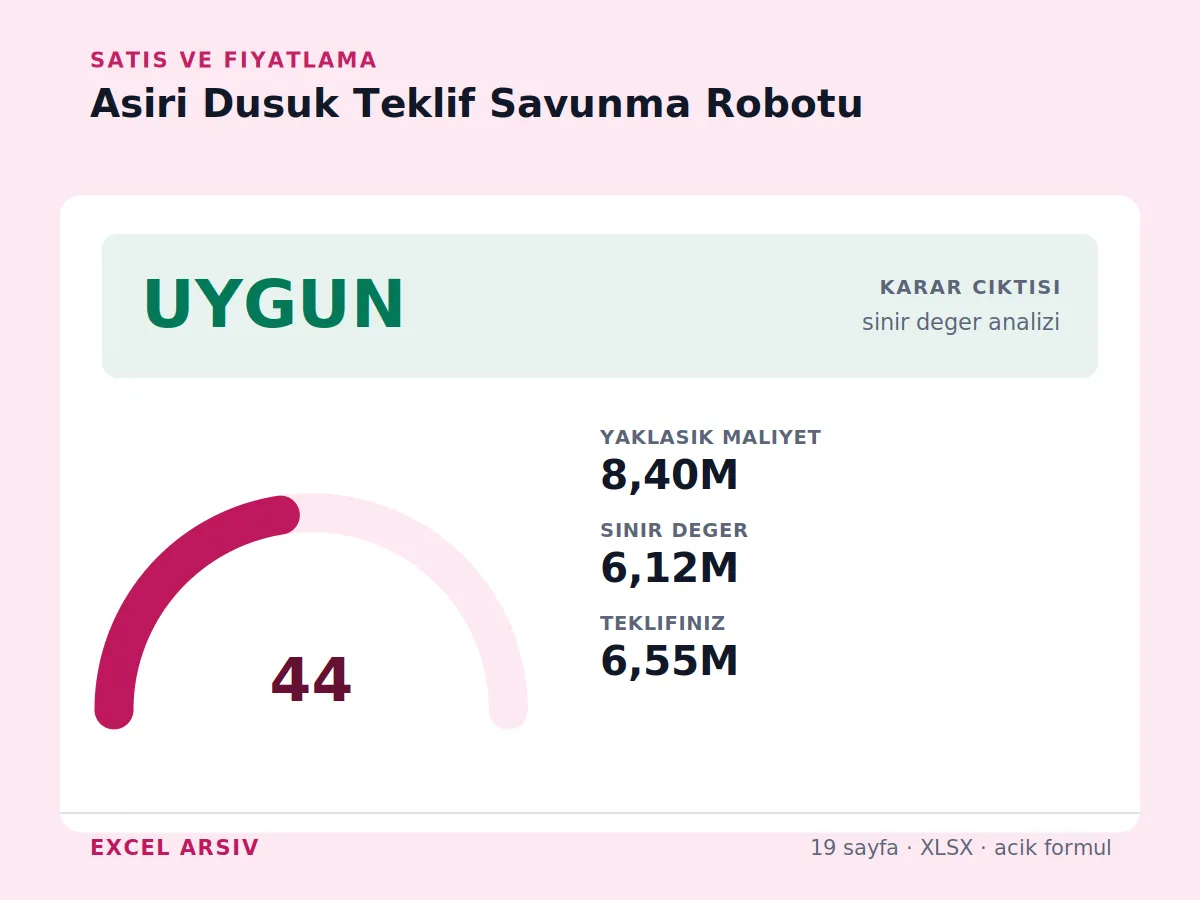
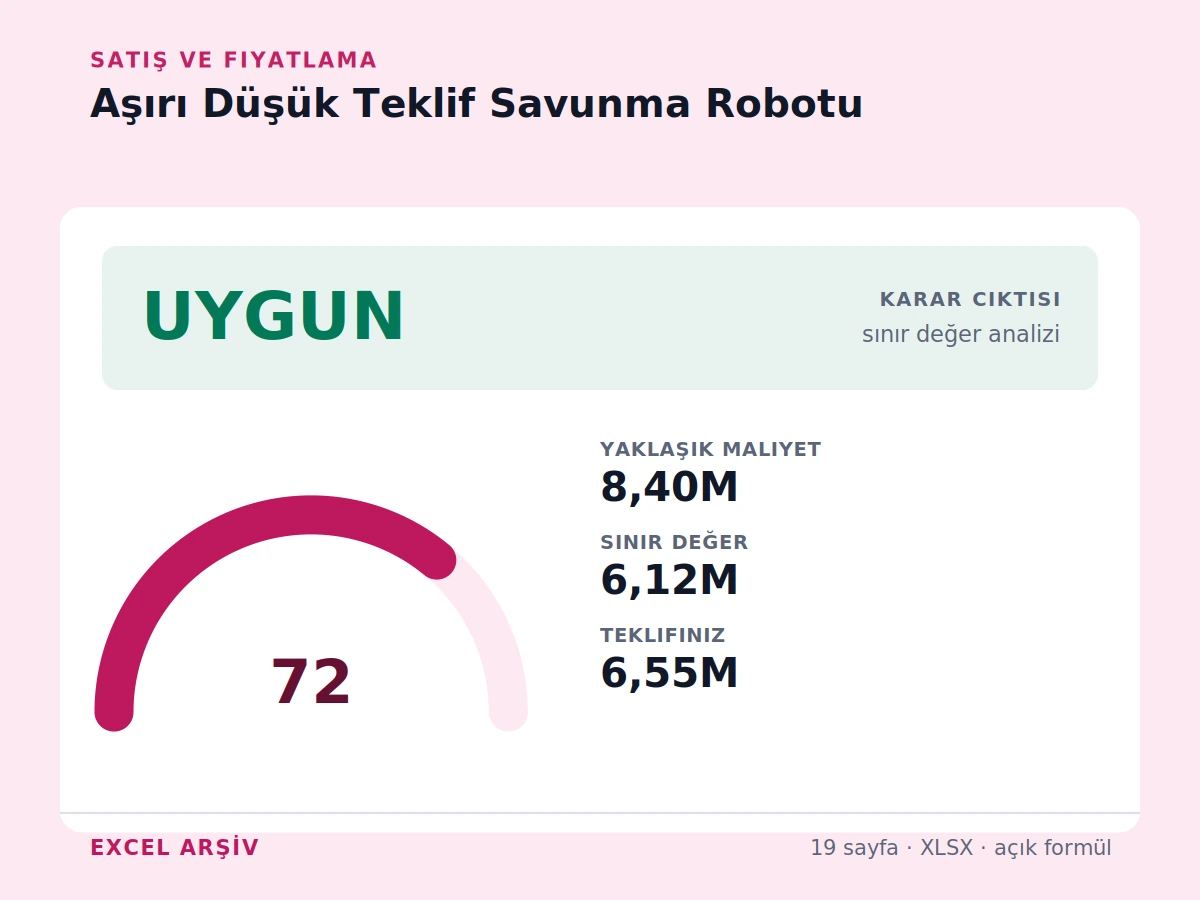
fix: 50 premium katalog kapağını gerçek render zincirine bağla

diff --git a/src/lib/kapak.ts b/src/lib/kapak.ts
@@ -1,17 +1,96 @@
 // Ürün slug'ından kapak görseli yolunu döndürür.
 // Kapak yalnızca kapak görseli üretilmiş ürünlerde mevcuttur; diğerlerinde undefined.
 const KAPAKLAR: Record<string, string> = {
-  '13-haftalik-nakit-akisi-ve-odeme-planlama-sistemi': '/images/kapak/13-haftalik-nakit-akisi.webp',
+  '13-haftalik-nakit-akisi-ve-odeme-planlama-sistemi': '/images/kapak/13-haftalik-nakit-akisi-ve-odeme-planlama-sistemi.webp',
   'asiri-dusuk-teklif-savunma-robotu': '/images/kapak/asiri-dusuk-teklif-savunma-robotu.webp',
-  'cari-hesap-tahsilat-ve-musteri-risk-takip-sistemi': '/images/kapak/cari-hesap-tahsilat-musteri-risk.webp',
-  'cek-senet-ve-vade-risk-sistemi': '/images/kapak/cek-senet-vade-risk.webp',
-  'kidem-ihbar-yuku-ve-personel-cikarma-maliyeti-hesaplayici': '/images/kapak/kidem-ihbar-yuku.webp',
-  'pos-komisyon-ve-net-tahsilat-kontrol-sistemi': '/images/kapak/pos-komisyon-net-tahsilat.webp',
-  'sirket-oz-kaynagi-eridi-mi-ttk-376-sermaye-tamamlama-cetveli': '/images/kapak/ttk-376-sermaye-tamamlama.webp',
-  'uretim-recetesi-ve-zam-yansitma-hesaplayici': '/images/kapak/uretim-recetesi-zam-yansitma.webp',
-  'vergi-sgk-borcunu-tecil-etmeli-miyim-kredi-mi-tecil-mi': '/images/kapak/vergi-sgk-tecil-mi-kredi-mi.webp',
+  'cari-hesap-tahsilat-ve-musteri-risk-takip-sistemi': '/images/kapak/cari-hesap-tahsilat-ve-musteri-risk-takip-sistemi.webp',
+  'cek-senet-ve-vade-risk-sistemi': '/images/kapak/cek-senet-ve-vade-risk-sistemi.webp',
+  'kidem-ihbar-yuku-ve-personel-cikarma-maliyeti-hesaplayici': '/images/kapak/kidem-ihbar-yuku-ve-personel-cikarma-maliyeti-hesaplayici.webp',
+  'pos-komisyon-ve-net-tahsilat-kontrol-sistemi': '/images/kapak/pos-komisyon-ve-net-tahsilat-kontrol-sistemi.webp',
+  'sirket-oz-kaynagi-eridi-mi-ttk-376-sermaye-tamamlama-cetveli': '/images/kapak/sirket-oz-kaynagi-eridi-mi-ttk-376-sermaye-tamamlama-cetveli.webp',
+  'uretim-recetesi-ve-zam-yansitma-hesaplayici': '/images/kapak/uretim-recetesi-ve-zam-yansitma-hesaplayici.webp',
+  'vergi-sgk-borcunu-tecil-etmeli-miyim-kredi-mi-tecil-mi': '/images/kapak/vergi-sgk-borcunu-tecil-etmeli-miyim-kredi-mi-tecil-mi.webp',
 };
 
 export function kapakYolu(slug: string): string | undefined {
   return KAPAKLAR[slug];
+}
+
+// 50 ürünlük premium katalog kapağı katmanı.
+// Mevcut resolver davranışını bozmaz; yalnız exact commerce slug eşleşmesinde öncelik alır.
+const PREMIUM_KAPAK_SLUGS = new Set<string>([
+  "13-haftalik-nakit-akisi-ve-odeme-planlama-sistemi",
+  "akilli-kasa-defteri-ve-nakit-kontrol-sistemi",
+  "amortisman-2026-yeniden-degerleme",
+  "amortisman-ve-sabit-kiymet-satis-zamanlama-stratejisti",
+  "asgari-ucret-zam-etkisi-fiyat-ayarlama-cetveli",
+  "asiri-dusuk-teklif-savunma-robotu",
+  "aylik-patron-finans-paneli",
+  "banka-kredi-ve-taksit-takip-sistemi",
+  "cari-ba-bs-toplu-mutabakat",
+  "cari-hesap-tahsilat-ve-musteri-risk-takip-sistemi",
+  "cek-senet-ve-vade-risk-sistemi",
+  "defter-beyan-e-arsiv-aktarim",
+  "doviz-acik-pozisyonu-ve-kur-riski-stres-testi",
+  "e-fatura-satir-defteri-pdf-kaniti",
+  "e-fatura-toplu-donusturucu",
+  "fazla-mesai-ve-isci-dava-riski-tespit-dosyasi",
+  "gunluk-gelir-gider-ve-gercek-karlilik-sistemi",
+  "hakedis-fiyat-farki-hak-kaybi-cetveli",
+  "ihaleye-kac-tl-teklif-vermeliyim",
+  "insaat-hakedis-santiye-maliyet",
+  "ithalat-depo-teslim-rafa-gelen-net-birim-maliyet",
+  "kacirilan-sgk-tesvikleri-ve-gercek-iscilik-maliyeti-analizi",
+  "kdv-iade-listesi-robotu-gib7",
+  "kdv-iadesi-azami-alacak-hesabi-dosya-hazirlayici",
+  "kdv-tevkifat-mahsup-iade-listesi",
+  "kidem-ihbar-yuku-ve-personel-cikarma-maliyeti-hesaplayici",
+  "kira-avans-takip-dekont",
+  "kkeg-ve-finansman-gider-kisitlamasi-vergi-savunma-seti",
+  "kobi-finans-yonetim-paketi",
+  "konkordato-nakit-akis-on-projesi",
+  "mutfak-kayip-kacak-hesaplayici",
+  "nakliye-maliyeti-hesaplayici",
+  "ortaklar-cari-ve-kasa-adat-faiz-faturasi-hesaplayici",
+  "pazaryeri-net-kar-ve-eksik-hakedis-yakalayici",
+  "pos-komisyon-ve-net-tahsilat-kontrol-sistemi",
+  "proje-ve-is-bazinda-gercek-karlilik-sistemi",
+  "restoran-recete-maliyet-fire",
+  "sirket-oz-kaynagi-eridi-mi-ttk-376-sermaye-tamamlama-cetveli",
+  "stok-satis-ve-nakit-baglanma-sistemi",
+  "sube-karlilik-ve-nakit-hesaplayici",
+  "taseron-hakedis-kesinti-mutabakati",
+  "tesvikli-bordro-avantajli-tesvik",
+  "tesvikli-bordro-optimizasyon",
+  "trendyol-komisyon-sonrasi-net-kar",
+  "uretim-recetesi-ve-zam-yansitma-hesaplayici",
+  "vergi-sgk-borcunu-tecil-etmeli-miyim-kredi-mi-tecil-mi",
+  "vergi-sgk-ve-maas-karsilik-ayirma-sistemi",
+  "yeniden-degerleme-yapmali-miyim-vergi-tasarruf-analizi",
+  "yillara-sari-insaat-stopaj-nakit-akis-planlayici",
+  "ymm-tasdik-kontrol-robotu",
+]);
+
+export function premiumKapakUrl(input: unknown): string | undefined {
+  const __premiumValue = arguments[0] as any;
+  const __premiumSlug = typeof __premiumValue === 'string'
+    ? __premiumValue
+    : typeof __premiumValue?.slug === 'string'
+      ? __premiumValue.slug
+      : typeof __premiumValue?.id === 'string'
+        ? __premiumValue.id
+        : undefined;
+  if (__premiumSlug && PREMIUM_KAPAK_SLUGS.has(__premiumSlug)) {
+    return `/images/kapak/${__premiumSlug}.webp`;
+  }
+
+  const value = input as { slug?: unknown; id?: unknown } | string | null | undefined;
+  const slug = typeof value === 'string'
+    ? value
+    : typeof value?.slug === 'string'
+      ? value.slug
+      : typeof value?.id === 'string'
+        ? value.id
+        : undefined;
+  return slug && PREMIUM_KAPAK_SLUGS.has(slug) ? `/images/kapak/${slug}.webp` : undefined;
 }

diff --git a/tests/conformance/catalog-premium-covers.test.ts b/tests/conformance/catalog-premium-covers.test.ts
@@ -1,0 +1,45 @@
+import test from 'node:test';
+import assert from 'node:assert/strict';
+import { existsSync, readFileSync } from 'node:fs';
+import { resolve } from 'node:path';
+import { fileURLToPath } from 'node:url';
+
+const ROOT = resolve(fileURLToPath(new URL('../../', import.meta.url)));
+
+test('satıştaki her ürünün premium katalog kapağı vardır', () => {
+  const catalog = JSON.parse(readFileSync(resolve(ROOT, 'commerce/catalog.json'), 'utf8'));
+  const slugs = Object.keys(catalog.products ?? {});
+  const missing = slugs.filter((slug) => !existsSync(resolve(ROOT, 'public/images/kapak', `${slug}.webp`)));
+  assert.equal(slugs.length, 50);
+  assert.deepEqual(missing, []);
+});
+
+test('premium resolver mevcut kapak sözleşmesini ezmeden eklenmiştir', () => {
+  const source = readFileSync(resolve(ROOT, 'src/lib/kapak.ts'), 'utf8');
+  assert.equal(source.includes('export function premiumKapakUrl'), true);
+  assert.equal(source.includes('/images/kapak/${slug}.webp'), true);
+});
+
+test('katalog kapak zinciri premium katmana bağlıdır', () => {
+  const kapak = readFileSync(resolve(ROOT, 'src/lib/kapak.ts'), 'utf8');
+  const candidates = [
+    'src/components/catalog/KatalogUrunKarti.astro',
+    'src/pages/sablonlar.astro',
+    'src/pages/sablonlar/index.astro',
+    'src/components/ProductCard.astro',
+    'src/components/home/PremiumFeaturedTemplates.astro',
+  ];
+  const directSurfaceBinding = candidates
+    .filter((p) => existsSync(resolve(ROOT, p)))
+    .map((p) => readFileSync(resolve(ROOT, p), 'utf8'))
+    .some((source) => source.includes('premiumKapakUrl'));
+
+  // Bazı repo revizyonlarında katalog yüzeyi src/lib/kapak.ts içindeki mevcut
+  // resolverı çağırır ve URL'yi karta prop olarak geçirir. Bu durumda premium
+  // seçim mevcut resolver gövdesine fail-safe override olarak eklenir.
+  const inPlaceResolverBinding =
+    kapak.includes('PREMIUM_KAPAK_SLUGS.has(__premiumSlug)') &&
+    kapak.includes('/images/kapak/${__premiumSlug}.webp');
+
+  assert.equal(directSurfaceBinding || inPlaceResolverBinding, true);
+});

diff --git a/src/lib/templates.ts b/src/lib/templates.ts
@@ -1,6 +1,6 @@
 import { getCollection, type CollectionEntry } from 'astro:content';
 import { pickCatalogScreenshot } from './catalog-screenshot';
-import { kapakYolu } from './kapak';
+import { kapakYolu, premiumKapakUrl } from './kapak';
 import { categories, getCategoryName, type CategorySlug } from './categories';
 import { shopierUrlForPrice } from './shopier';
 import type { SearchItem } from './search';
@@ -53,7 +53,7 @@ export function toTemplateViewModel(entry: TemplateEntry): TemplateViewModel {
     sheetMap: data.sheetMap,
     outputs: data.outputs,
     preview: pickCatalogScreenshot(data.screenshots),
-    kapak: kapakYolu(entry.id),
+    kapak: premiumKapakUrl(entry.id) ?? kapakYolu(entry.id),
     screenshotFocus: 'result',
     url: `/sablon/${entry.id}`,
     shopierUrl: shopierUrlForPrice(data.priceTL),
